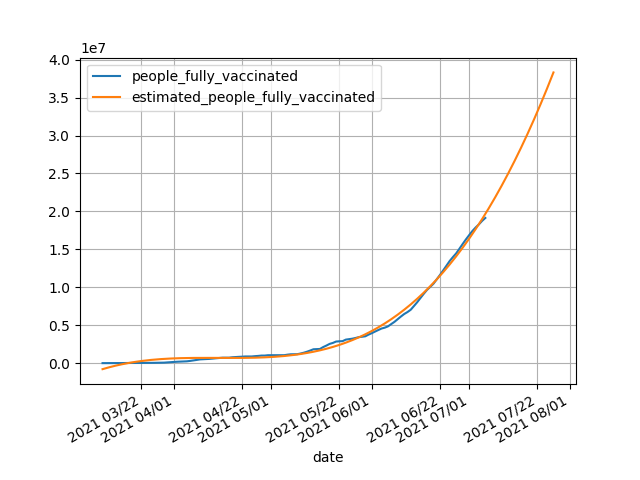
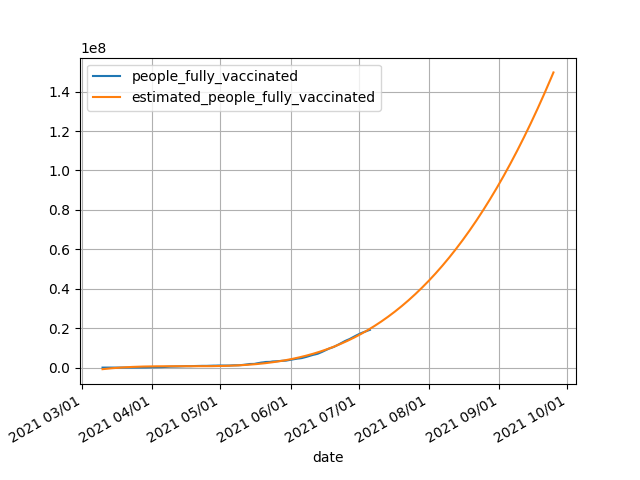
機械学習完全に理解したぜ

diff --git a/hobby/only-japan.py b/hobby/only-japan.py
@@ -33,7 +33,7 @@ for condition in ["total_vaccinations", "people_vaccinated", "people_fully_vacci
 
     # estimate
     test_x = np.arange(
-        start, start+datetime.timedelta(days=140), datetime.timedelta(days=1))
+        start, start+datetime.timedelta(days=200), datetime.timedelta(days=1))
     print(test_x.dtype)
     test_y = pipeline.predict(np.vectorize(
         lambda x: (x-start).days)(test_x).reshape(-1, 1))
